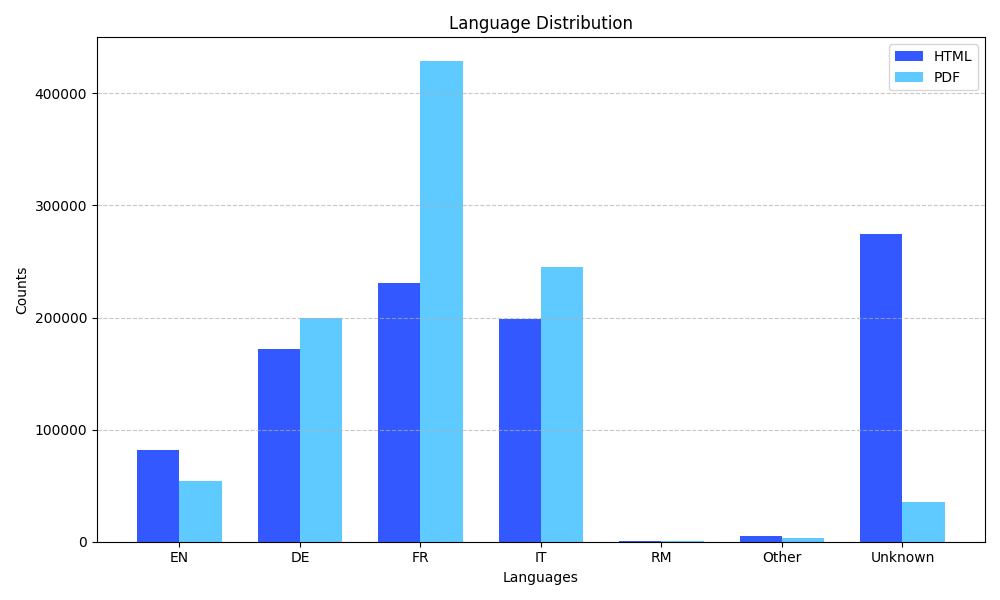
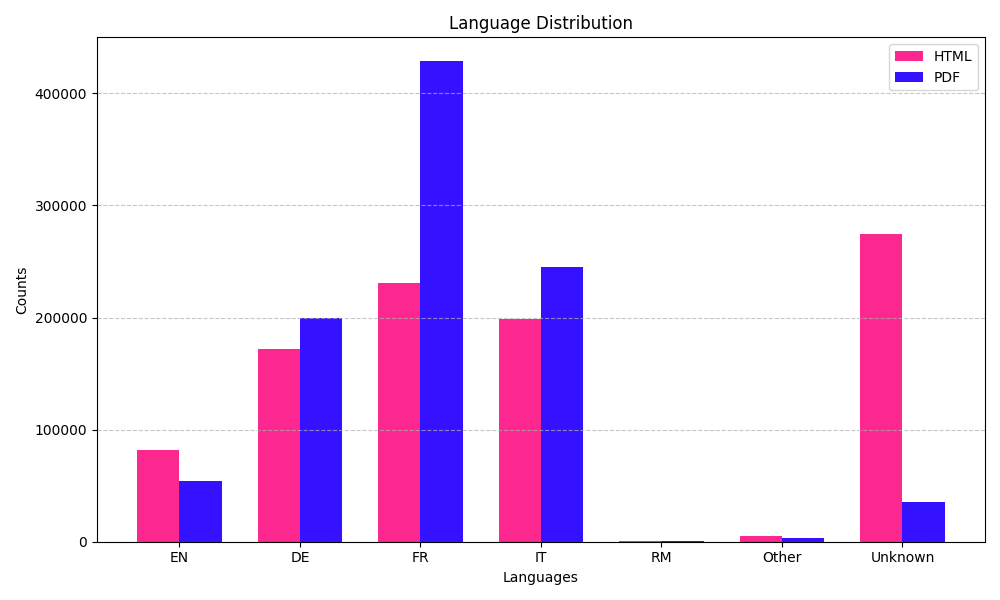
plots

diff --git a/queries/plot_wcount.py b/queries/plot_wcount.py
@@ -1,32 +1,30 @@
+
+import seaborn as sns
+import pandas as pd
 import matplotlib.pyplot as plt
-import numpy as np
-import json
-import matplotlib.ticker as ticker
 
+count_pdf = {"3000": 4729, "11500": 908, "1500": 10530, "4500": 2810, "500": 29379, "0": 28336, "20000": 16453, "17000": 640, "14500": 792, "6500": 1978, "5500": 2228, "1000": 18012, "13000": 786, "2000": 7925, "6000": 1998, "12500": 979, "7000": 1699, "2500": 6269, "8000": 1671, "12000": 892, "7500": 1544, "9000": 1421, "4000": 3075, "5000": 2595, "15000": 628, "18000": 593, "3500": 3992, "9500": 1553, "15500": 660, "19000": 618, "10000": 1129, "16500": 601, "18500": 814, "14000": 686, "11000": 945, "19500": 495, "8500": 1234, "13500": 812, "17500": 637, "10500": 1037, "16000": 879}
+count_html = {"500": 78170, "0": 121202, "1000": 35802, "1500": 34600, "2000": 13739, "6000": 213, "4000": 455, "4500": 437, "2500": 4173, "20000": 33, "3000": 2431, "7000": 72, "13500": 5, "16500": 3, "6500": 64, "11500": 12, "3500": 2068, "5500": 434, "5000": 169, "7500": 54, "15000": 2, "14500": 12, "15500": 6, "19000": 2, "8000": 44, "9500": 14, "9000": 4, "18500": 3, "17500": 1, "8500": 25, "11000": 1, "10500": 3, "16000": 5, "13000": 4, "10000": 5, "14000": 1, "12000": 3, "12500": 2}
+data = []
+for key, value in count_pdf.items():
+    data.extend([[int(key)/1000, "PDF"]] * value)
+for key, value in count_html.items():
+    data.extend([[int(key)/1000, "HTML"]] * value)
 
-count_html = dict(sorted(count_html.items()))
-# Extract keys and values
-wcount = list(count_html.keys())
-counts1 = list(count_html.values())
-#counts2 = list(lang_pdf.values())
+df = pd.DataFrame(data, columns=["word_count", "Source"])
 
-# Set the width of the bars and positions
-bar_width = 0.35
-#x = np.arange(len(wcount))
-x = wcount
-y= counts1
-plt.figure(figsize=(10, 6))
-plt.scatter(x, y, color='#3358ff', label='Data Points')  # Scatter plot for (x, y)
+custom_palette = {"PDF": "#3512ff", "HTML": "#fc288f"} 
 
+plot = sns.displot(df, x="word_count", hue="Source", bins=21, stat="density", palette=custom_palette)
+#for ax in plot.axes.flat: 
+#    ax.set_yscale("log")
 # Add labels and title
-plt.xlabel("X-axis")
-plt.ylabel("Y-axis")
-plt.title("Scatter Plot of (x, y) Points")
-plt.legend()
-ax = plt.gca()  # Get current axis
-ax.xaxis.set_major_locator(ticker.MaxNLocator(nbins=10))  # Adjust number of x-axis labels
+plt.xlabel("Word Count (k)")
+plt.ylabel("Density")
+plt.title("Word Count Distribution (HTML and PDF)")
+plt.grid(axis='y', linestyle='--', alpha=0.7)
 
-# Show grid and save the plot
-plt.grid(axis='both', linestyle='--', alpha=0.7)
+# Show the plot
 plt.tight_layout()
-plt.savefig("./xy_points_scatter.png")
+#plt.show()
+plt.savefig("./wcount_distribution.png")

diff --git a/queries/plot_lang.py b/queries/plot_lang.py
@@ -12,8 +12,8 @@ bar_width = 0.35
 x = np.arange(len(languages))
 
 plt.figure(figsize=(10, 6))
-plt.bar(x - bar_width / 2, counts1, width=bar_width, color='#3358ff', label='HTML')
-plt.bar(x + bar_width / 2, counts2, width=bar_width, color='#5fcaff', label='PDF')
+plt.bar(x - bar_width / 2, counts1, width=bar_width, color='#fc288f', label='HTML')
+plt.bar(x + bar_width / 2, counts2, width=bar_width, color='#3512ff', label='PDF')
 
 plt.xlabel("Languages")
 plt.ylabel("Counts")
